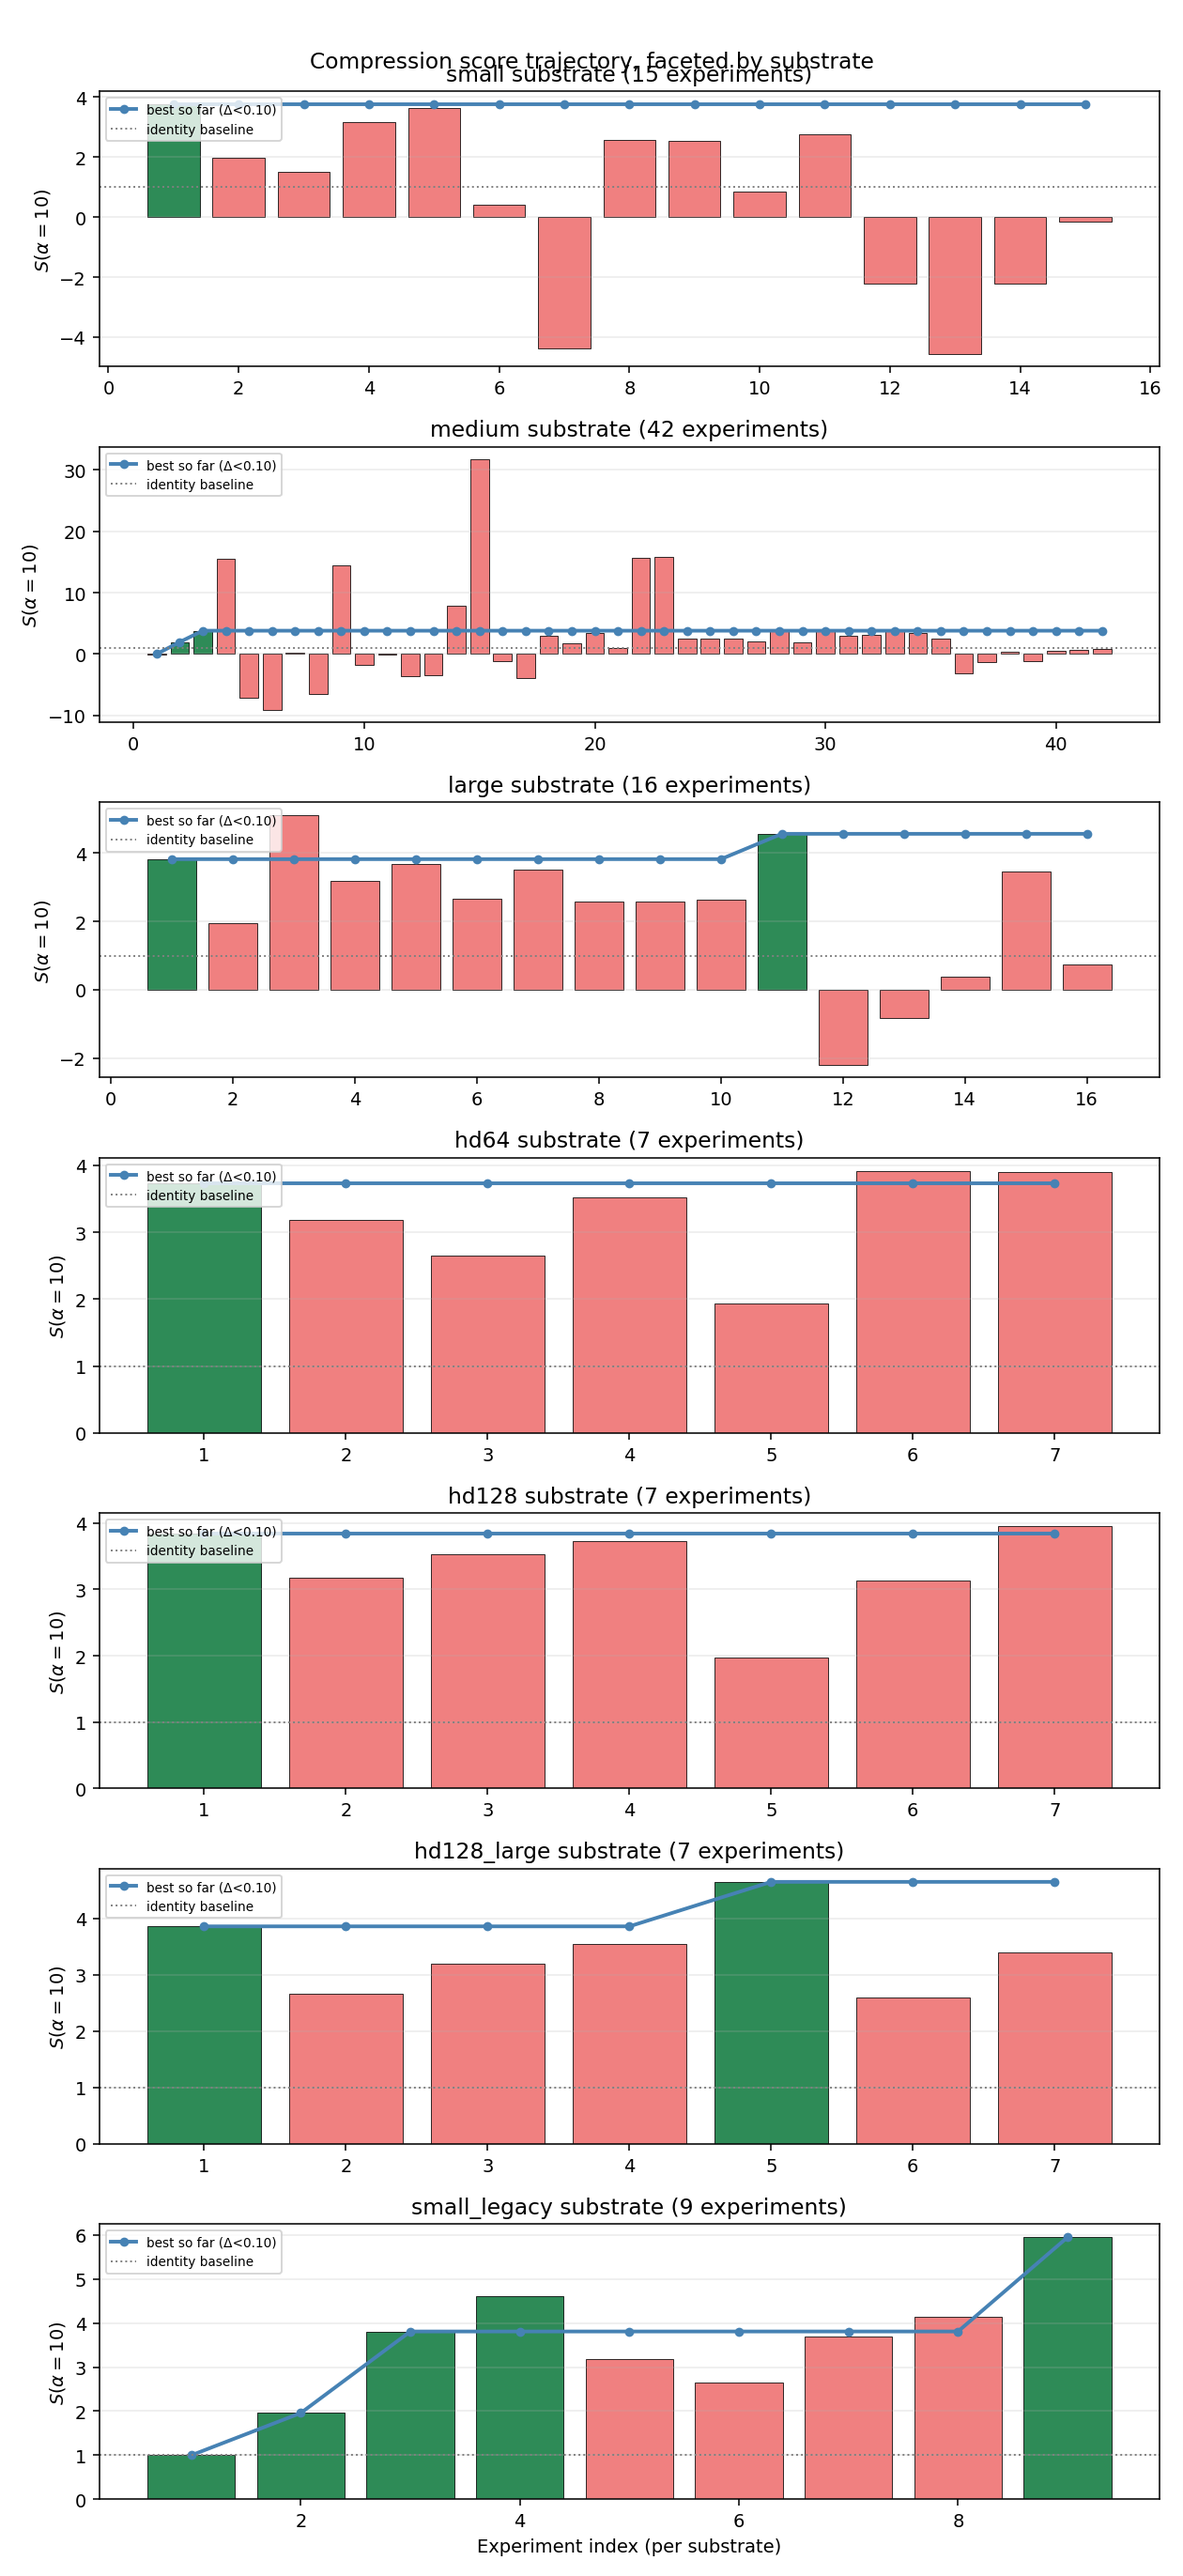
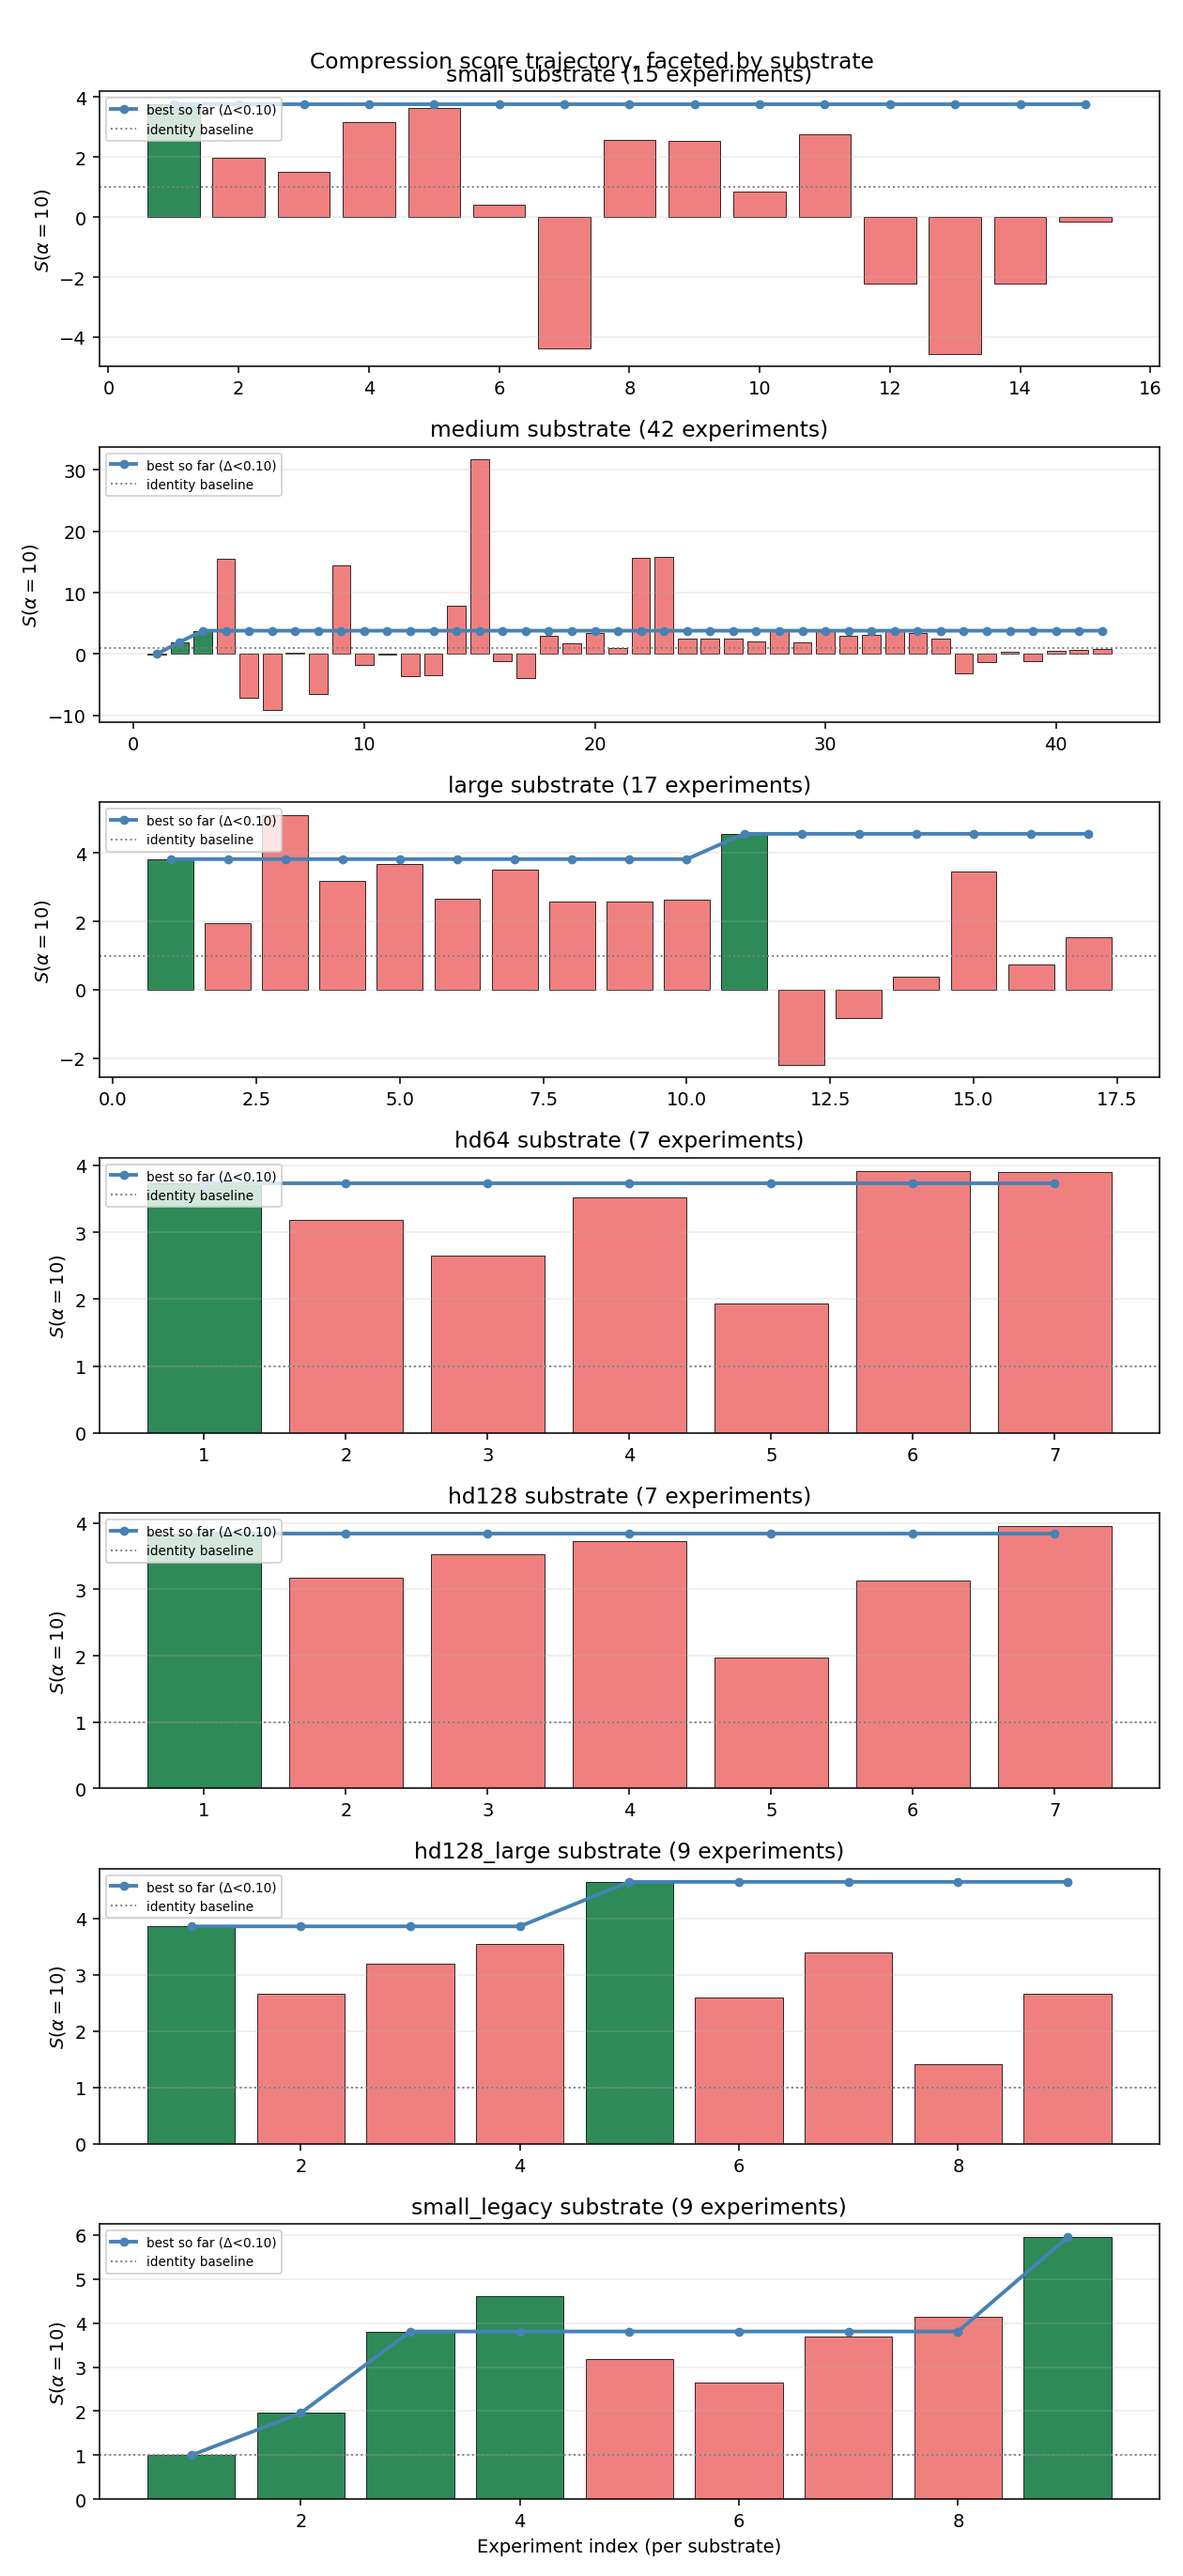
Phase 4: K-asymmetry second byte budget + B.2.a verification rows
3 new experiments confirming the K-vs-V asymmetry at scale:
- mixed_K2_V8 on large       : Δ=0.157 (vs K8_V2 Δ=0.047)  → 3.3× worse
- mixed_K2_V8 on hd128_large : Δ=0.171 (vs K8_V2 Δ=0.045)  → 3.8× worse
- mixed_K8_V2 on hd128_large : Δ=0.045 (matched-pair partner)

Combined with the K4_V2-vs-K2_V4 pair on the same substrates, the
K-bit precision penalty is remarkably consistent across (substrate,
byte budget): 3.2–3.8× quality cost from swapping K precision down.

paper.md updates:
- Finding 12: full 4-row matched-pair table covering both byte budgets
  (3.10× ratio K8_V2 vs K2_V8 + 5.05× ratio K4_V2 vs K2_V4) at both
  HD settings on the large-depth substrates. Note the consistency of
  the 3.2-3.8× penalty across all conditions — argues that K-precision
  is a structural attention-mechanism property, not a quantization
  artifact.
- §B.2.a: 5 new H2O verification rows (K∈{25, 50, 75, 85, 90} %)
  showing closed-form bpt matches measured to 6 decimal places
  (e.g. K=85%: predicted 1313.63 = measured 1313.63).

106 rows in results.tsv now.

diff --git a/paper.md b/paper.md
@@ -82,14 +82,25 @@ under different quality budgets without rerunning experiments.
     4-bit K + 2-bit V is the first compressor in our study to dominate
     vanilla INT4, but only on substrates with enough layers to absorb
     the V-side noise.
-12. **K-vs-V asymmetry generalizes to scale and even widens.** At the
-    same byte budget (5.05× ratio) on the large substrate, swapping
-    `mixed_K4_V2` (Δ = 0.049) → `mixed_K2_V4` (Δ = 0.158) costs **3.2×
-    in quality**; on hd128_large the swap costs **3.7×** (0.047 →
-    0.172). Even when V can be 2-bit at scale, K cannot — the
-    `q · k` dot-product remains the precision-critical operation across
-    every substrate we tested. The recommended bit allocation is
-    therefore "spend bits on K first" at every scale we measured.
+12. **K-vs-V asymmetry generalizes to scale and even widens.** Across
+    two large-substrate variants (HD=96, HD=128) and two byte budgets
+    (5.05× ratio for K=4/V=2, 3.10× ratio for K=8/V=2), we measured the
+    cost of swapping K and V bit-widths at the *same* byte budget:
+
+    | Substrate | Ratio | K-high Δ | V-high Δ | K-bit penalty |
+    |---|---|---|---|---|
+    | large (HD=96)        | 5.05× | K4_V2: 0.049 | K2_V4: 0.158 | **3.2×** |
+    | hd128_large (HD=128) | 5.12× | K4_V2: 0.047 | K2_V4: 0.172 | **3.7×** |
+    | large (HD=96)        | 3.10× | K8_V2: 0.047 | K2_V8: 0.157 | **3.3×** |
+    | hd128_large (HD=128) | 3.12× | K8_V2: 0.045 | K2_V8: 0.171 | **3.8×** |
+
+    Even when V can be 2-bit at scale, K cannot — the `q · k` dot-
+    product remains the precision-critical operation across every
+    substrate we tested. The penalty is also remarkably consistent
+    across byte budget (3.2–3.8×), suggesting it is a structural
+    property of attention rather than a quantization-noise artifact.
+    The recommended bit allocation is therefore "spend bits on K first"
+    at every scale we measured.
 
 We position these findings explicitly as **deployment-time guidance**:
 given a memory budget per token and a quality tolerance, the Pareto
@@ -693,6 +704,11 @@ separately in §B.2.b.
 | Top-k 25% (k=512) | `(512/2048)·1536 + (512·11)/(8·2048) = 384.34` | 384.34 | 0 |
 | Top-k 50% (k=1024) | `768 + 0.69 = 768.69` | 768.69 | 0 |
 | Top-k 75% (k=1536) | `1152 + 1.03 = 1153.03` | 1153.03 | 0 |
+| H2O R=64 K=25% | `(560/2048)·1536 + (496·11)/(8·2048) = 420.33` | 420.33 | 0 |
+| H2O R=64 K=50% | `(1056/2048)·1536 + (992·11)/(8·2048) = 792.67` | 792.67 | 0 |
+| H2O R=64 K=75% | `(1552/2048)·1536 + (1488·11)/(8·2048) = 1165.00` | 1165.00 | 0 |
+| H2O R=64 K=85% | `(1750/2048)·1536 + (1686·11)/(8·2048) = 1313.63` | 1313.63 | 0 |
+| H2O R=64 K=90% | `(1850/2048)·1536 + (1786·11)/(8·2048) = 1388.70` | 1388.70 | 0 |
 | SVD r=8 | `4·8 = 32` | 32.00 | 0 |
 | SVD r=16 | `4·16 = 64` | 64.00 | 0 |
 | SVD r=32 | `4·32 = 128` | 128.00 | 0 |
